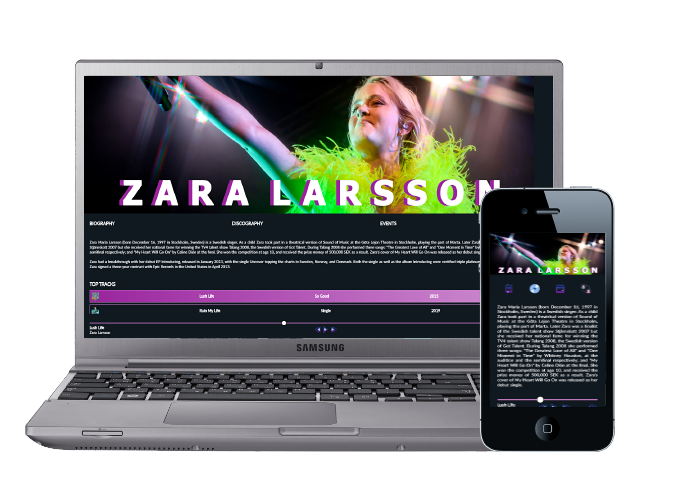
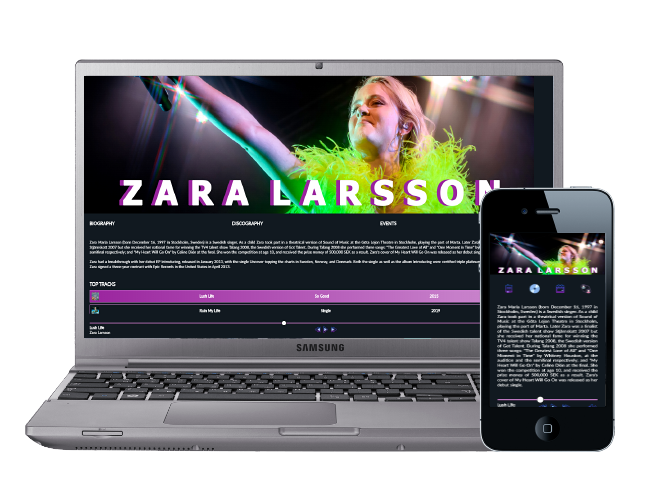
misc fixes

diff --git a/style.css b/style.css
@@ -55,6 +55,10 @@ span:hover {
 	text-align: center;
 }
 
+.sub-title {
+  font-size: 1.2rem;
+}
+
 a {
 	text-decoration: none;
 	color: black;
@@ -66,7 +70,7 @@ a:visited {
 }
 
 .main-title {
-	font-size: 10vh;
+	font-size: 5rem;
 	margin: 2%;
 }
 
@@ -76,11 +80,11 @@ a:visited {
 
 .central-content {
 	letter-spacing: 3px;
-	left: 0;
-  margin-top: -10%;
   position: absolute;
   top: 50%;
   width: 100%;
+  left: 50%;
+  transform: translateY(-50%) translateX(-50%); 
 }
 
 .long-line {
@@ -126,7 +130,7 @@ a:visited {
 	margin: 10px;
 	color: black;
   background-size: 0% 100%;
-  border:none;
+  border: 2px solid transparent;
   transition: background-color .5s;
 }
 		
@@ -145,8 +149,9 @@ a:visited {
 }
 
 .page-title {
-	font-size: 6vh;
+	font-size: 3rem;
 	padding-top: 5%;
+  font-weight: 400;
 }
 
 .line {
@@ -160,8 +165,9 @@ a:visited {
 .page-text {
 	text-align: justify;
 	text-justify: inter-word;
-	font-size: 2.5vh;
-	margin: 5% 15% 6% 15%;
+	font-size: 1.2rem;
+	margin: 0 15%;
+  padding: 2rem 0 9rem 0;
 }
 
 .second-page .page-text {
@@ -183,6 +189,7 @@ a:visited {
   grid-gap: 7%;
   align-items: stretch;
   margin: 15% 15% 10% 15%;
+  padding-bottom: 5rem;
 }
 
 .project-image {
@@ -212,6 +219,11 @@ a:visited {
 
 .project-text {
  padding: 0.5% 2.5%;
+}
+
+.project-text a {
+  text-decoration: underline;
+
 }
 
 .project-title:hover {
@@ -272,8 +284,8 @@ a:visited {
 
 .hamburger {
   border: none;
-  width: 55px;
-  height: 55px;
+  width: 45px;
+  height: 45px;
   background: white;
   cursor: pointer;
   float: right;
@@ -327,12 +339,12 @@ a:visited {
 .calltoaction {
   font-family: 'Open Sans', sans-serif;
   text-decoration: none;
-  padding: 20px;
+  padding: 10px;
   margin: 10px;
   background-size: 0% 100%;
   border: 1px solid black;
   transition: background-color .5s;
-  font-size: 1.3em;
+  font-size: 1.3rem;
 }
 
 .calltoaction:hover {
@@ -347,8 +359,8 @@ a:visited {
 .socials-div {
   background-color: #ffbfa8;
   text-align: center;
-  padding-top: 60px;
-  padding-bottom: 40px;
+  padding-top: 80px;
+  padding-bottom: 60px;
 }
 
 .socials {
@@ -371,6 +383,11 @@ a:visited {
   margin: 20px;
 }
 
+.text.footer {
+  font-size: 1.2rem;
+  font-weight: 300;
+}
+
 /* responsiveness */
 
 /* wide screens */
@@ -385,7 +402,7 @@ a:visited {
   }
 
   .text {
-    font-size: 2em;
+    font-size: 2rem;
   }
 
   .show-all {
@@ -399,7 +416,7 @@ a:visited {
   }
 
   .menu-link {
-    font-size: 1.6em;
+    font-size: 1.6rem;
   }
 }
 
@@ -414,6 +431,16 @@ a:visited {
 /* small screens */
 
 @media only screen and (max-width: 674px) {
+  .main-title {
+    font-size: 3.5rem;
+  }
+
+  .sub-title {
+    font-size: 1rem;
+    margin-left: 20px;
+    margin-right: 20px;
+  }
+  
   .projects {
     grid-template-columns: repeat(auto-fill, minmax(200px, 1fr));
     grid-gap: 2%;
@@ -452,6 +479,10 @@ a:visited {
     transition:background-size 1s, background-color 1s;
   }
 
+  .page-title {
+    font-size: 2rem;
+  }
+
   .show-all {
     background-color: #ffbfa8;
     padding: 8px;
@@ -474,16 +505,29 @@ a:visited {
     opacity: 1;
   }
 
+  .page-text {
+    font-size: 1rem;
+    padding-bottom: 3.5rem;
+  }
+
+  .text.footer {
+    font-size: 1rem;
+  }
+
+  .calltoaction {
+    font-size: 1rem;
+  }
+
 }
 
 @media only screen and (max-width: 450px) {
   .central-content {
-    top: 30%;
+    top: 35%;
   }
 
   .hamburger {
-    width: 45px;
-    height: 45px;
+    width: 35px;
+    height: 35px;
   }
 
   .show-all-button {
@@ -495,7 +539,6 @@ a:visited {
   }
 
   .calltoaction {
-    font-size: 1em;
     padding: 10px;
   }
 
@@ -510,13 +553,13 @@ a:visited {
 
 @media only screen and (min-width: 1080px) and (max-width: 1504px) {
   .fourth-page {
-    padding-top: 1rem;
+    padding-top: 2rem;
   }
 }
 
 @media only screen and (max-width: 584px) {
   .fourth-page {
-    padding-top: 1rem;
+    padding-top: 2rem;
   }
 }
 

diff --git a/index.html b/index.html
@@ -3,7 +3,7 @@
 <head>
     <meta charset="UTF-8">
     <meta name="viewport" content="width=device-width, initial-scale=1.0">
-    <link rel="stylesheet" type="text/css" href="style-minified.css">
+    <link rel="stylesheet" type="text/css" href="style.css">
     <link href="https://fonts.googleapis.com/css?family=Montserrat|Open+Sans&display=swap" rel="stylesheet">
     <title>💻 Welcome! ☕</title>
 </head>
@@ -143,10 +143,10 @@
         </section>  
 
         <section class="fourth-page" id="contact">
-            <h1 class="page-title hidden">contact</h1>
+           <!-- <h1 class="page-title hidden">contact</h1>
             <hr class="line">
             <p class="text page-text">I'm available for any sort of job or internship opportunities. Feel free to contact me on 
-            one of my social network profiles linked below.</p>
+            one of my social network profiles linked below.</p>-->
             <div class="socials-div hidden">
                 <a class="calltoaction" href="mailto:silvija.prozinger@gmail.com"><img class="social-icon" alt="mail icon" src="images/icons8-important-mail-48.png">CONTACT ME</a> <!-- icon credit to icons8 -->
                 <ul class="contact-info">
@@ -160,9 +160,9 @@
     </main>
         
     <footer>
-        <h4 class="text footer">© 2021 Silvija Prozinger </h4>
+        <h4 class="text footer">© 2022 Silvija Prozinger </h4>
     </footer>
 
-    <script src="script-minified.js"></script>
+    <script src="script.js"></script>
 </body>
 </html>

diff --git a/script.js b/script.js
@@ -80,10 +80,10 @@ for (let i = 0; i < playButton.length; i++){
         if (gif === true && webpChecker === true){
             playButton[i].style.backgroundImage = 'url(images/icons8-pause-button-80.png)' //on click change icon from play to pause
             thumbnail[i].src = `images/P${i+1}webp.webp` //because looping starts from 0 and projects from 1
-        //if webp is not supported use gif format instead
+            //if webp is not supported use gif format instead
         } else if (gif === true && webpChecker === false){
             playButton[i].style.backgroundImage = 'url(images/icons8-pause-button-80.png)' 
-            thumbnail[i].src = `images/P${i+1}gif.gif` 
+            thumbnail[i].src = `images/P${i+1}gif.gif`
         } else {
             playButton[i].style.backgroundImage = 'url(images/icons8-circled-play-80.png)'
             thumbnail[i].src = `images/P${i+1}small.png`
